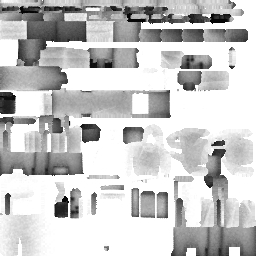
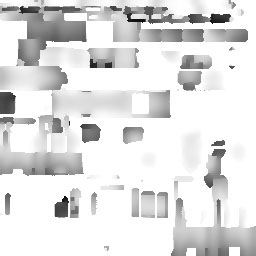
adjusted trail deformation

diff --git a/deploy/js/video/VideoShader.js b/deploy/js/video/VideoShader.js
@@ -6,12 +6,13 @@ var DistortUniforms = {
   "threshold": { type: "f", value: 0.5 },
   "alphaFadeout": { type: "f", value: 0.5 },
   "mouseXY": { type: "v2", value: new THREE.Vector2() },
+  //"trail": { type: "fv", value: [0,0,0,0,0,0,0,0,0,0,0,0,0,0,0,0,0,0,0,0,0,0,0,0,0,0,0,0,0,0,0,0] },
   "trail0": { type: "v2", value: new THREE.Vector2() },
   "trail1": { type: "v2", value: new THREE.Vector2() },
   "trail2": { type: "v2", value: new THREE.Vector2() },
   "trail3": { type: "v2", value: new THREE.Vector2() },
   "trail4": { type: "v2", value: new THREE.Vector2() },
-  "mouseSpeed": { type: "v2", value: new THREE.Vector2() },
+  "mouseSpeed": { type: "f", value: 1. },
   "mouseRad": { type: "f", value: 1. }
 
 };
@@ -28,20 +29,21 @@ var DistortShaderFragmentPars = [
     "varying vec2 vUvPoly;",
     "varying float distancePoly;",
     "varying float distance;",
-    "varying vec2 closestPoly;"
+    "varying vec2 closest;"
 
 ].join("\n");
 
 var DistortVertexShader = [
 
     "uniform vec2 mouseXY;",
+    //"uniform vec2 trail[16];",
     "uniform vec2 trail0;",
     "uniform vec2 trail1;",
     "uniform vec2 trail2;",
     "uniform vec2 trail3;",
     "uniform vec2 trail4;",
     "uniform float aspect;",
-    "uniform vec2 mouseSpeed;",
+    "uniform float mouseSpeed;",
     "uniform float mouseRad;",
 
     "varying vec2 vUv;",
@@ -49,7 +51,7 @@ var DistortVertexShader = [
     "varying float distance;",
     "varying float distancePoly;",
 
-    "varying vec2 closestPoly;",
+    "varying vec2 closest;",
 
     "vec2 getClosest(vec2 p, vec2 l1, vec2 l2){",
     
@@ -66,7 +68,7 @@ var DistortVertexShader = [
     "}",
 
     "float getDistance(vec2 p, vec2 li){",
-        "return max(0., 1. - sqrt( (p.x-li.x)*(p.x-li.x) + (p.y-li.y)*(p.y-li.y) ) );",
+        "return 1. - sqrt( (p.x-li.x)*(p.x-li.x) + (p.y-li.y)*(p.y-li.y) );",
     "}",
 
     "void main() {",
@@ -81,27 +83,33 @@ var DistortVertexShader = [
         "vec2 projPosPoly = vec2(aspect,1.)*vec2(glPosPoly.x/glPosPoly.z,glPosPoly.y/glPosPoly.z);",
 
         "float distRand = normal.z+.5;",
-        "vec2 closestTrailPoly1 = getClosest(projPosPoly,trail0,trail1);",
-        "vec2 closestTrailPoly2 = getClosest(projPosPoly,trail1,trail2);",
-        "vec2 closestTrailPoly3 = getClosest(projPosPoly,trail2,trail3);",
-        "vec2 closestTrailPoly4 = getClosest(projPosPoly,trail3,trail4);",
+        "vec2 closestTrailPoly0 = getClosest(projPosPoly,trail0,trail1);",
+        "vec2 closestTrailPoly1 = getClosest(projPosPoly,trail1,trail2);",
+        "vec2 closestTrailPoly2 = getClosest(projPosPoly,trail2,trail3);",
+        "vec2 closestTrailPoly3 = getClosest(projPosPoly,trail3,trail4);",
 
-        "float distanceTrailPoly1 = 1.0*mouseRad*distRand * getDistance(projPosPoly,closestTrailPoly1);",
-        "float distanceTrailPoly2 = 0.9*mouseRad*distRand * getDistance(projPosPoly,closestTrailPoly2);",
-        "float distanceTrailPoly3 = 0.8*mouseRad*distRand * getDistance(projPosPoly,closestTrailPoly3);",
-        "float distanceTrailPoly4 = 0.7*mouseRad*distRand * getDistance(projPosPoly,closestTrailPoly4);",
+        "float distanceTrailPoly0 = 1.0*mouseRad*distRand * getDistance(projPosPoly,closestTrailPoly0);",
+        "float distanceTrailPoly1 = 0.9*mouseRad*distRand * getDistance(projPosPoly,closestTrailPoly1);",
+        "float distanceTrailPoly2 = 0.8*mouseRad*distRand * getDistance(projPosPoly,closestTrailPoly2);",
+        "float distanceTrailPoly3 = 0.7*mouseRad*distRand * getDistance(projPosPoly,closestTrailPoly3);",
 
-        "distancePoly = max(distanceTrailPoly1,max(distanceTrailPoly2,max(distanceTrailPoly3,distanceTrailPoly4)));",
+        "distancePoly = max(distanceTrailPoly0,max(distanceTrailPoly1,max(distanceTrailPoly2,distanceTrailPoly3)));",
 
-        //"vec2 closestTrail1 = getClosest(projPos,trail0,trail1);",
-        //"vec2 closestTrail2 = getClosest(projPos,trail1,trail2);",
-        //"vec2 closestTrail3 = getClosest(projPos,trail2,trail3);",
-        //"vec2 closestTrail4 = getClosest(projPos,trail3,trail4);",
+//        "vec2 closestTrail1 = getClosest(projPos,trail0,trail1);",
+//        "vec2 closestTrail2 = getClosest(projPos,trail1,trail2);",
+//        "vec2 closestTrail3 = getClosest(projPos,trail2,trail3);",
+//        "vec2 closestTrail4 = getClosest(projPos,trail3,trail4);",
+//
+//        "float distanceTrail1 = 0.9*mouseRad * getDistance(projPos,closestTrail1);",
+//        "float distanceTrail2 = 0.8*mouseRad * getDistance(projPos,closestTrail2);",
+//        "float distanceTrail3 = 0.7*mouseRad * getDistance(projPos,closestTrail3);",
+//        "float distanceTrail4 = 0.6*mouseRad * getDistance(projPos,closestTrail4);",
 
-        //"float distanceTrail1 = 0.9*mouseRad * getDistance(projPos,closestTrail1);",
-        //"float distanceTrail2 = 0.8*mouseRad * getDistance(projPos,closestTrail2);",
-        //"float distanceTrail3 = 0.7*mouseRad * getDistance(projPos,closestTrail3);",
-        //"float distanceTrail4 = 0.6*mouseRad * getDistance(projPos,closestTrail4);",
+//  "distance = max(distanceTrail1,max(distanceTrail2,max(distanceTrail3,distanceTrail4)));",
+//  "gl_Position.xy = gl_Position.xy + normalize(projPos.xy-closestTrail1)*vec2(distanceTrail1*100.);",
+//  "gl_Position.xy = gl_Position.xy + normalize(projPos.xy-closestTrail2)*vec2(distanceTrail2*100.);",
+//  "gl_Position.xy = gl_Position.xy + normalize(projPos.xy-closestTrail3)*vec2(distanceTrail3*100.);",
+//  "gl_Position.xy = gl_Position.xy + normalize(projPos.xy-closestTrail4)*vec2(distanceTrail4*100.);",
 
 
         //+normalize(closestTrail2)+normalize(closestTrail3)+normalize(closestTrail4);",
@@ -110,9 +118,8 @@ var DistortVertexShader = [
         //"gl_Position.xy += normalize(projPos-closestTrail3)*vec2((distanceTrail3)*100.);",
         //"gl_Position.xy += normalize(projPos-closestTrail4)*vec2((distanceTrail4)*100.);",
 
-        "distance = mouseRad*max(0.,1.-length(projPos-trail0));",
-        "gl_Position.xy = gl_Position.xy + normalize(projPos.xy-trail0)*vec2(distance*100.);",
-        "gl_Position.xy = gl_Position.xy -mouseSpeed.xy*pow(distance,2.)*100.;",
+        "distance = mouseRad*max(0.,1.-length(projPos-trail0  ));",
+        "gl_Position.xy = gl_Position.xy + normalize(projPos.xy-trail0)*vec2(distance*mouseSpeed*100.);",
 
     "}"
 
@@ -120,6 +127,7 @@ var DistortVertexShader = [
     
 ].join("\n");
 
+debug = "//gl_FragColor = vec4(vec3(closest,1.),1.);";
 
 var VideoShaderSource = {
 	opaque: {
@@ -239,7 +247,8 @@ var VideoShaderSource = {
 				"cPoly.a = aPoly.r;",
 				
 				"if ((distancePoly)>0.5) c = cPoly; ",
-        "gl_FragColor = c;",//vec4(vec3(distancePoly),1.);//
+        "gl_FragColor = c;",
+        debug,
 			"}"
 
 		].join("\n")
@@ -334,6 +343,7 @@ var VideoShaderSource = {
                 "vec4 cPoly = texture2D( map, vec2( vUvPoly.x, vUvPoly.y ) );",
                 "if ((distancePoly)>0.5) c = cPoly; ",
                 "else gl_FragColor = c;",
+                debug,
 			"}"
 
 		].join("\n")

diff --git a/deploy/js/video/VideoPlane.js b/deploy/js/video/VideoPlane.js
@@ -7,8 +7,10 @@ var VideoPlane = function( shared, layer, conf ) {
 	var isStatic = layer.path.match("png$") || layer.path.match("jpg$");
 	var bendForce = layer.bendForce || 400;
 
-	var polyTrail = new PolyTrail(-shared.mouse.x*config.aspect, -shared.mouse.y);
-    
+	var polyTrail = new PolyTrail();
+
+
+
 	var fps = layer.fps || 20;
 	
 	this.locked = layer.locked;
@@ -117,7 +119,7 @@ var VideoPlane = function( shared, layer, conf ) {
 
 		uniforms['mouseXY'].value = new THREE.Vector2( 0, 0 );
 		uniforms['aspect'].value = config.aspect;
-		uniforms['mouseSpeed'].value = 0;
+		uniforms['mouseSpeed'].value = 1;
     uniforms['mouseRad'].value = 1;
 
 	}
@@ -172,9 +174,11 @@ var VideoPlane = function( shared, layer, conf ) {
     this.mesh.scale.y *= Math.abs(layer.z) * config.adj;
 	//this.mesh.doubleSided = true;
 
-	this.start = function(t) {
+	this.start = function(t, mouseX, mouseY) {
 
-		if(isStatic) return;
+    polyTrail.set(-mouseX * config.aspect, -mouseY);
+
+    if(isStatic) return;
 		
 		try {
 			video.currentTime = video.duration * t;
@@ -210,37 +214,42 @@ var VideoPlane = function( shared, layer, conf ) {
         polyTrail.target.x = -mouseX * config.aspect;
         polyTrail.target.y = -mouseY;
         polyTrail.update();
-        
+
+//        for (i = 0; i <= 4; i++) {
+//            material.uniforms['trail' + i].value.x = polyTrail.s[i*4].x;
+//            material.uniforms['trail' + i].value.y = polyTrail.s[i*4].y+0.0001*i;
+//        }
+        //var trail = [];
         for (i = 0; i <= 4; i++) {
-            material.uniforms['trail' + i].value = polyTrail.s[i*4];
+            //trail.push(polyTrail.s[i].x);
+            //trail.push(polyTrail.s[i].y+0.0001*i);
+            material.uniforms['trail' + i].value.x = polyTrail.s[i*4].x;
+            material.uniforms['trail' + i].value.y = polyTrail.s[i*4].y+0.0001*i;
         }
-        
+        //material.uniforms['trail'].value = trail;
         material.uniforms['mouseXY'].value.x = -mouseX * config.aspect;
         material.uniforms['mouseXY'].value.y = -mouseY;
         material.uniforms['mouseSpeed'].value = mouseSpeed;
         material.uniforms['mouseRad'].value = mouseRad;
     }
-
 };
 
-function PolyTrail(x,y){
-    this.target = new THREE.Vector2(x,y);
+function PolyTrail(){
+    this.target = new THREE.Vector2();
     this.s = [];
-    this.g = [];
     for (var i = 0; i <= 16; i++) {
-        this.s[i] = new THREE.Vector2(x,y);
-        this.g[i] = new THREE.Vector2(x,y);
+        this.s[i] = new THREE.Vector2();
     }
 }
+PolyTrail.prototype.set = function(x,y){
+    for (var i = 16; i >= 0; i = i - 1) {
+        this.s[i] = new THREE.Vector3(x,y,0);
+    }
+};
 PolyTrail.prototype.update = function(){
-    var trailDelay = 2;
-    for (var i = 16; i >= 1; i = i - 1) {
-        this.s[i].x += (this.g[i].x - this.s[i].x);// / trailDelay;
-        this.s[i].y += (this.g[i].y - this.s[i].y);// / trailDelay;
-        
-        if (this.s[i].x == this.g[i].x) this.g[i].x = this.s[i - 1].x;
-        if (this.s[i].y == this.g[i].y) this.g[i].y = this.s[i - 1].y;
-
+    for (var i = 16; i > 0; i = i - 1) {
+        this.s[i].x = this.s[i - 1].x;
+        this.s[i].y = this.s[i - 1].y;
     }
     this.s[0].x = this.target.x;
     this.s[0].y = this.target.y;

diff --git a/deploy/js/video/VideoPlayer.js b/deploy/js/video/VideoPlayer.js
@@ -25,7 +25,7 @@ var VideoPlayer = function( shared, layers, conf ) {
 	var mouseOldX = 0, mouseOldY = 0;
 	var mouseNewX = 0, mouseNewY = 0;
 	var mouseRad = 1.;
-	var mouseSpeed = new THREE.Vector2(0,0);
+	var mouseSpeed = 1;
 	var targetPos;
 
 	this.duration = layers[ 0 ].duration;
@@ -84,7 +84,7 @@ var VideoPlayer = function( shared, layers, conf ) {
 			var p = planes[i];
 			if(p.locked) camera.addChild(p.mesh);
 			else scene.addChild(p.mesh);
-			p.start( progress );
+			p.start( progress, mouseX, mouseY );
 		}
 
 	};
@@ -106,9 +106,10 @@ var VideoPlayer = function( shared, layers, conf ) {
       mouseNewX = mouseX;
       mouseNewY = mouseY;
 
-      mouseSpeed.x += (1000*limitSpeed(mouseNewX-mouseOldX,0.05)/delta - mouseSpeed.x)/12;
-      mouseSpeed.y += (1000*limitSpeed(mouseNewY-mouseOldY,0.05)/delta - mouseSpeed.y)/12;
-      //mouseRad += (Math.max(Math.min((Math.abs(mouseSpeed.x)+Math.abs(mouseSpeed.y)),3),0.4)-mouseRad)/2;
+      var vX = Math.abs(limitSpeed(mouseNewX-mouseOldX,0.05)/delta);
+      var vY = Math.abs(limitSpeed(mouseNewY-mouseOldY,0.05)/delta);
+
+      mouseSpeed += (700*(vX+vY) - mouseSpeed)/20;
 
       mouseOldX = mouseX;
       mouseOldY = mouseY;
